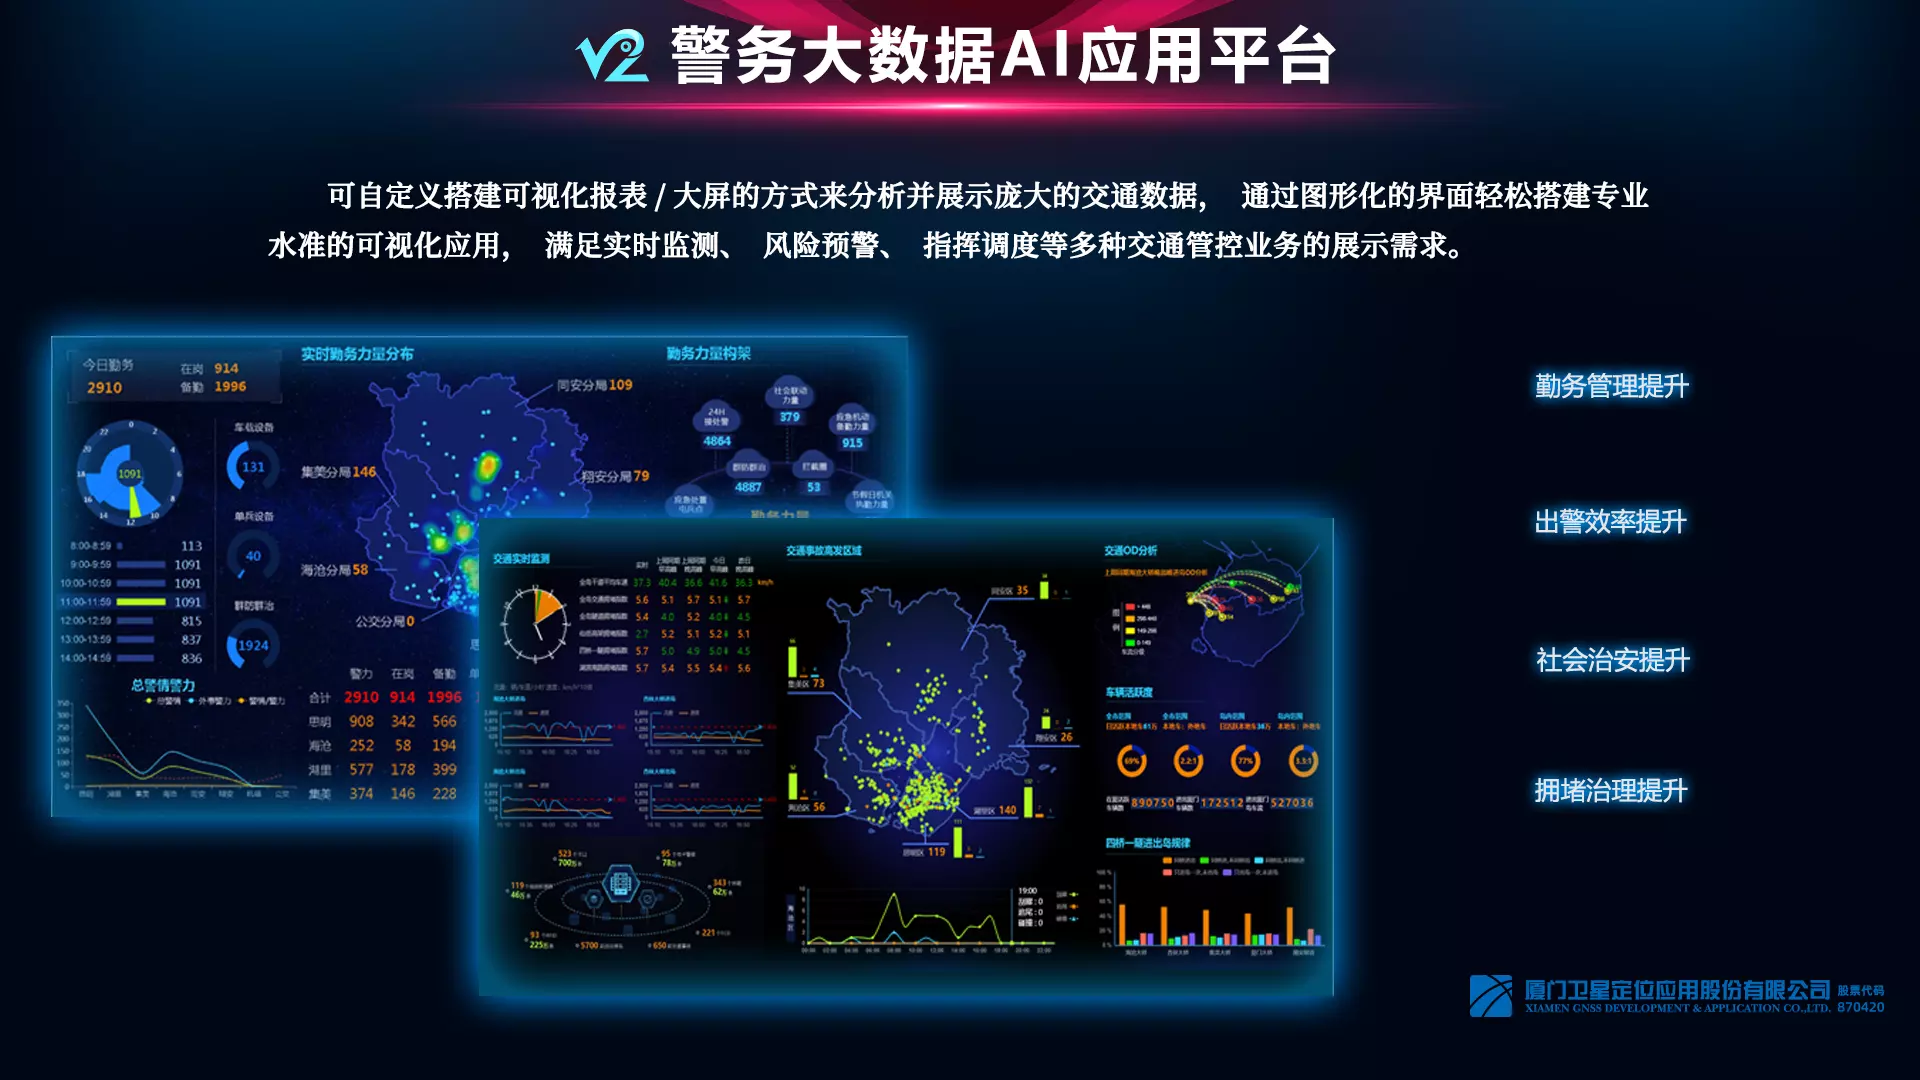
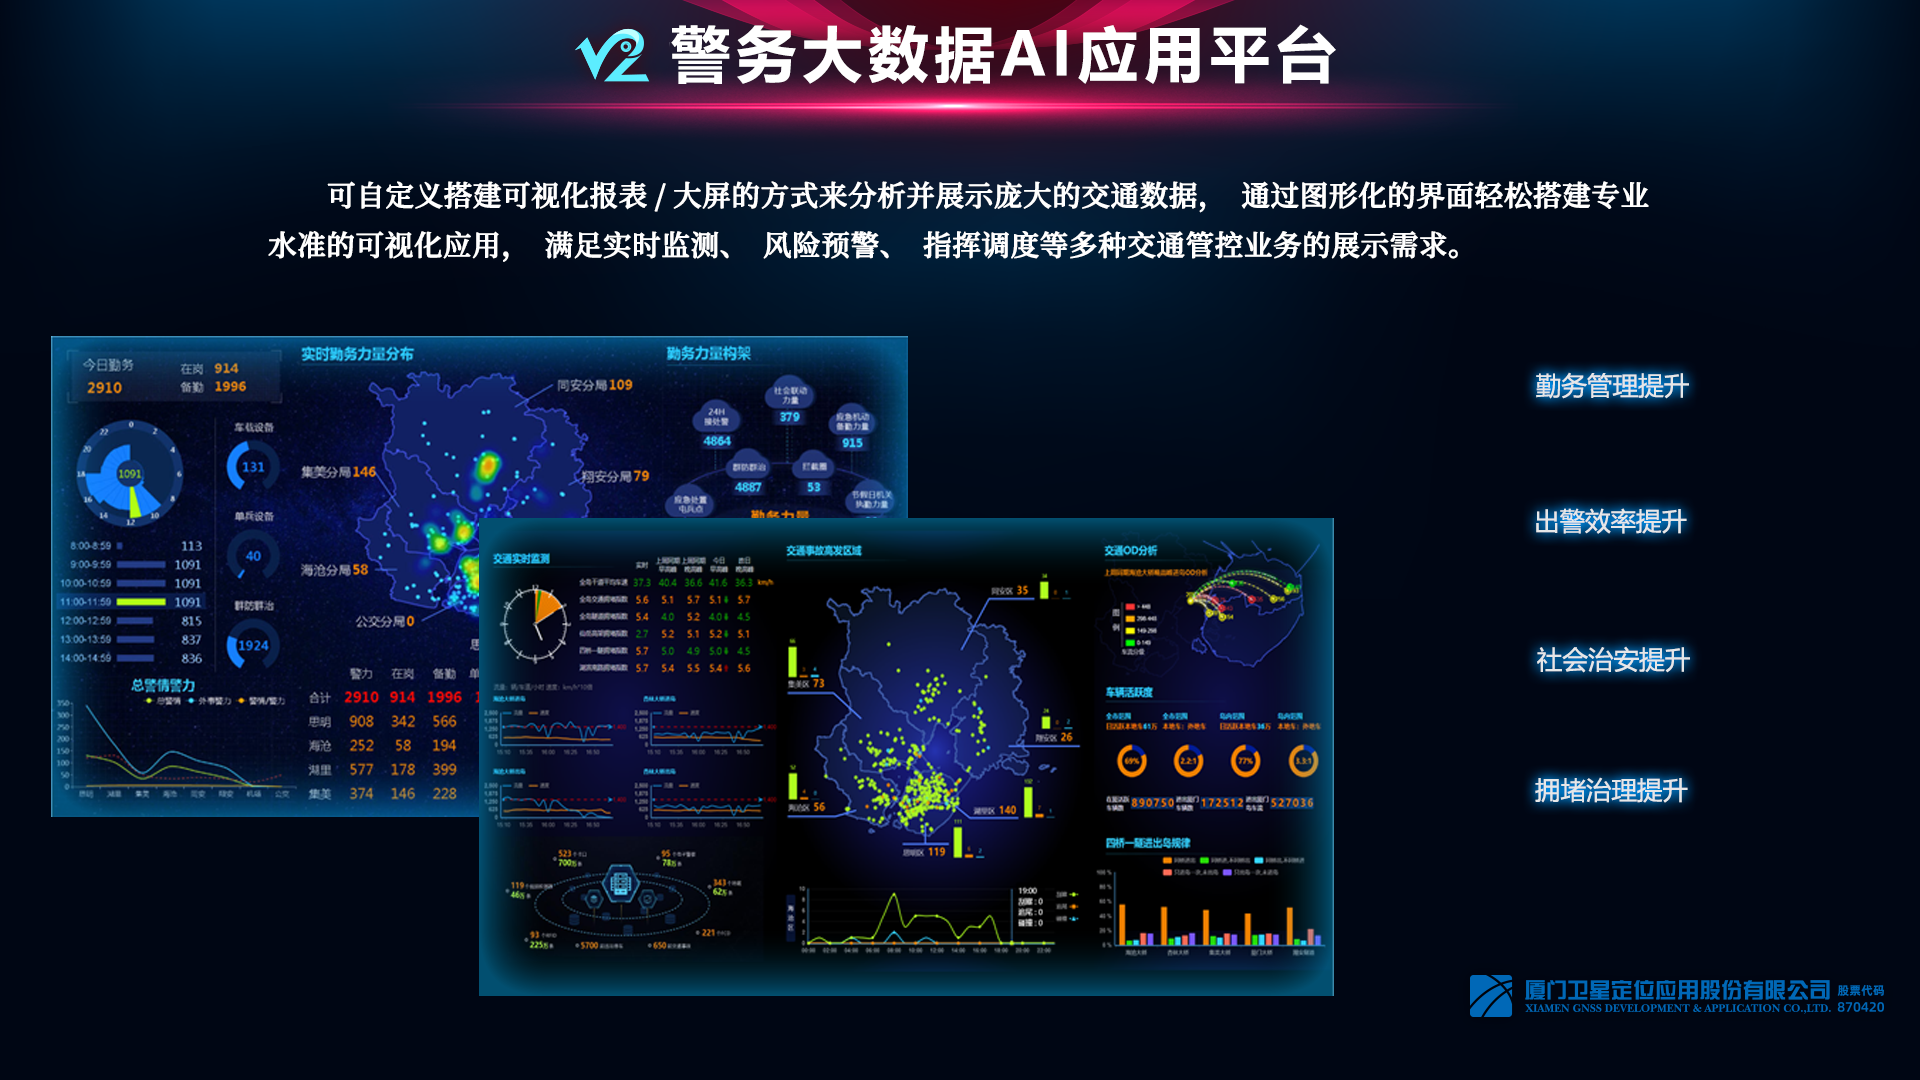
v202008041015

diff --git a/src/components/GongAn/QinWu.vue b/src/components/GongAn/QinWu.vue
@@ -6,7 +6,12 @@
     <div class="detail">
       可视化勤务指挥平台，围绕“勤务态势、勤务部署、勤务督导、勤务研判、勤务信息、勤务管理、移动勤务”进行应用建设，从派出所到市局的跨层级一体化管理。满足治安警、巡特警、交警等细分警种不同的勤务应用场景需求。
     </div>
-    <div class="describe"></div>
+    <div class="describe text-shadow">
+      <span>勤务大数据</span>
+      <span>分类勤务部署</span>
+      <span>智能指挥调度</span>
+      <span>实战考评体系</span>
+    </div>
   </div>
 </template>
 
@@ -58,12 +63,16 @@ export default {
     }
     .describe{
       width: (184px * 100vw / $screenWidth);
-      height: (365px * 100vh / $screenHeight);
-      background: url("~@/assets/img/descirbe-qwksh.png") no-repeat;
-      background-size: 100% 100%;
+      //height: (300px * 100vh / $screenHeight);
+      display: flex;
+      flex-direction: column;
+      //justify-content: space-between;
       position: absolute;
-      top: (146px * 100vh / $screenHeight);
+      top: (158px * 100vh / $screenHeight);
       right: 0;
+      span{
+        margin-bottom: (69px * 100vh / $screenHeight);
+      }
     }
   }
 </style>

diff --git a/src/components/jTitle.vue b/src/components/jTitle.vue
@@ -16,7 +16,7 @@ export default {
   width: (545px * 100vw / $screenWidth);
   height: (60px * 100vh / $screenHeight);
   position: absolute;
-  top: (24px * 100vh / $screenHeight);
+  top: (74px * 100vh / $screenHeight);
   left: 50%;
   margin-left: (-272.5px * 100vw / $screenWidth);
   display: flex;

diff --git a/src/components/JiaoJing/TeQin.vue b/src/components/JiaoJing/TeQin.vue
@@ -62,7 +62,7 @@ export default {
       left: 0;
     }
     .describe{
-      width: (179px * 100vw / $screenWidth);
+      width: (185px * 100vw / $screenWidth);
       //height: (300px * 100vh / $screenHeight);
       display: flex;
       flex-direction: column;
